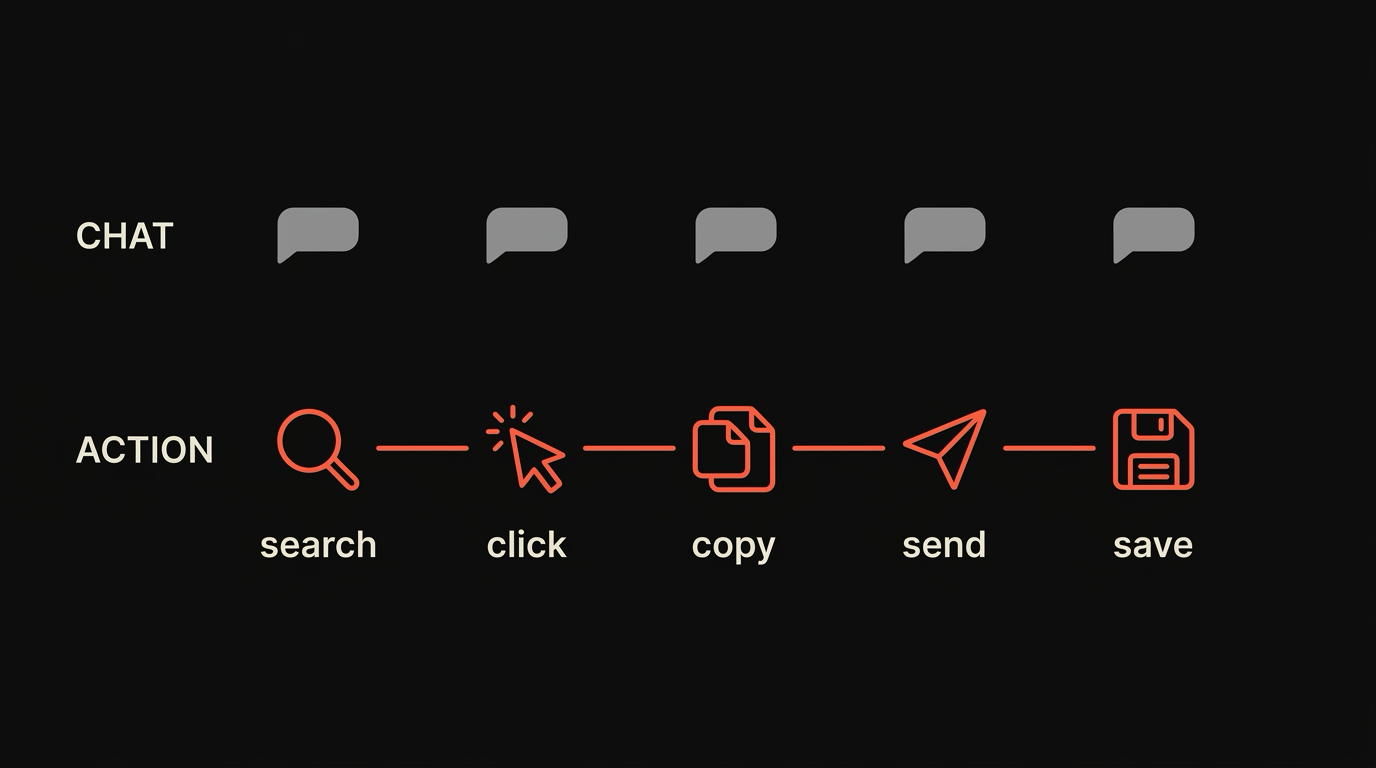
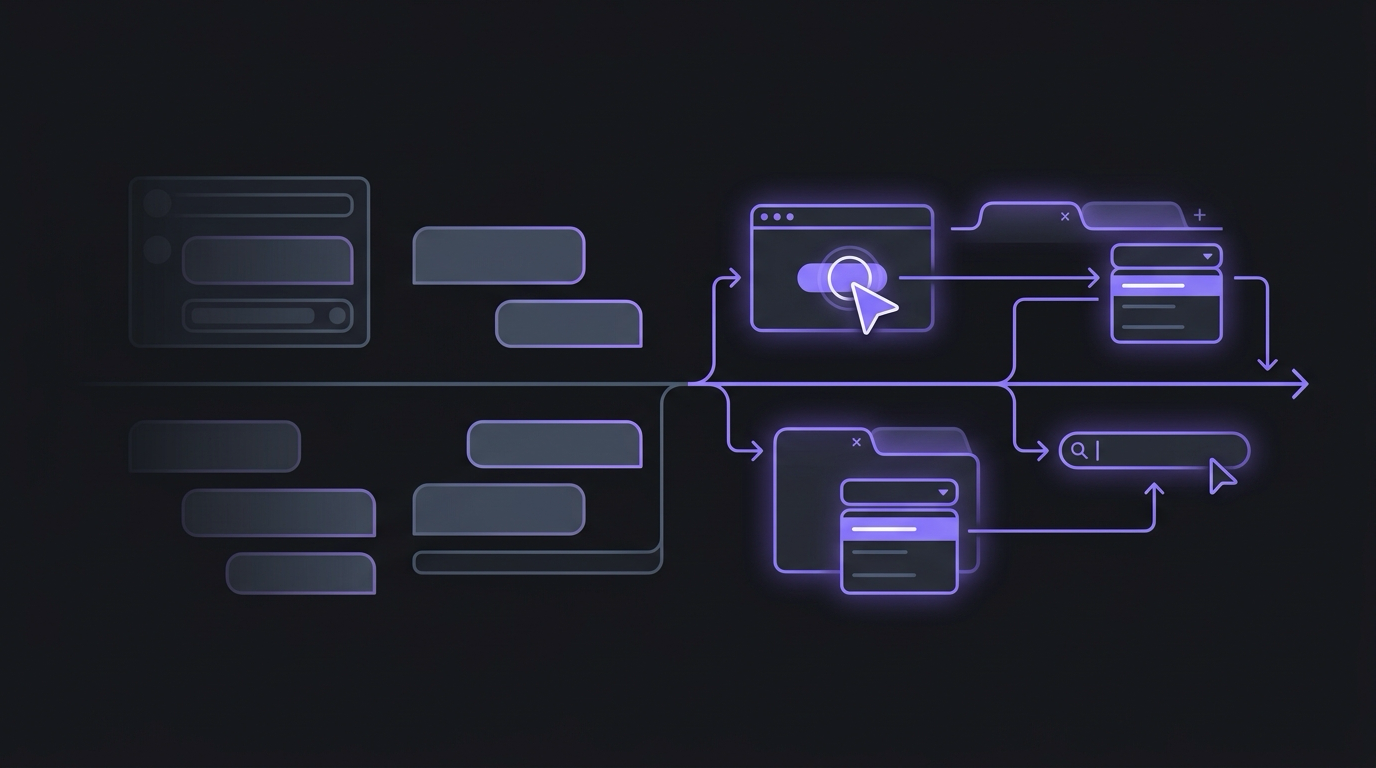
docs(blog): add blog AGENTS.md guidelines and update legacy body images with agy vector art

Changed region(s): [[0.0312, 0.2188, 0.9688, 0.8125]]

diff --git a/website/src/content/docs/blog/AGENTS.md b/website/src/content/docs/blog/AGENTS.md
@@ -1,0 +1,143 @@
+---
+title: "Maho Blog Post & Asset Creation Guidelines"
+description: "Canonical reference for authoring, styling, verifying, and illustrating Maho Browser blog posts."
+date: 2026-08-24
+tags: ["guidelines", "internal"]
+excerpt: "Canonical reference for authoring, styling, verifying, and illustrating Maho Browser blog posts."
+draft: true
+authors:
+  - name: Maho Team
+---
+
+# MAHO BLOG POST & ASSET CREATION GUIDELINES
+
+**Generated:** 2026-08-24  
+**Location:** `website/src/content/docs/blog/`  
+**Purpose:** Canonical reference for authoring, styling, verifying, and illustrating Maho Browser blog posts.
+
+---
+
+## 1. OVERVIEW & FILE STRUCTURE
+
+Every blog post consists of an MDX document and three associated image assets:
+
+```
+website/
+├── src/content/docs/blog/
+│   └── <slug>.mdx                      # Article body with YAML frontmatter
+└── public/assets/blog/<slug>/
+    ├── hero.png                        # Cover card (Satori / Resvg rendered)
+    ├── body-1.png                      # First body illustration (agy generated)
+    └── body-2.png                      # Second body illustration (agy generated)
+```
+
+---
+
+## 2. FRONTMATTER & METADATA CONTRACT
+
+Each MDX file must begin with exact YAML frontmatter:
+
+```yaml
+---
+title: "Article Title Here"
+description: "A concise 1-2 sentence summary of the article."
+date: 2026-08-24
+tags: ["browser", "workflow", "privacy", "ux"]
+excerpt: "A compelling summary displayed on the blog index and RSS feed."
+authors:
+  - name: Maho Team
+---
+```
+
+- **Date:** Release date in `YYYY-MM-DD` format.
+- **Authors:** Always `Maho Team` unless otherwise specified.
+- **Language:** English only.
+
+---
+
+## 3. WRITING STANDARDS & CONTENT RULES
+
+### Tone & Style
+- **Clear, Technical, and Grounded:** Write with engineering depth. Explain *why* architectural choices matter rather than making vague marketing claims.
+- **Word Count:** 1,200 to 1,600 words per article.
+- **Structure:** Clear hierarchy (`##` H2 sections, `###` H3 subsections) with logical progression.
+
+### Mandatory Compliance & Licensing Guardrails
+- **PROPRIETARY / CLOSED-SOURCE ONLY:** Maho is closed-source.
+  - **NEVER** use open-source claims ("open source", "MIT licensed", "auditable code", etc.).
+  - **NEVER** link to public source repositories (`github.com/*/maho*`).
+  - Validation check must return 0 matches:
+    ```bash
+    grep -inE 'open.?source|MIT licen[cs]|github\.com/[A-Za-z0-9_.-]+/maho' <post>.mdx
+    ```
+- **Security & Performance Claims:**
+  - Do not promise unsubstantiated security ("unbreakable", "audited", "more secure") unless explicitly cleared. Focus on concrete UX, auto-lock, and consent mechanisms.
+  - Do not fabricate synthetic benchmarks or RAM percentages; explain architectural trade-offs (e.g. native views vs extension background processes) and guide users to measure themselves.
+
+---
+
+## 4. IMAGE ARCHITECTURE: HERO VS. BODY SEPARATION (CRITICAL)
+
+Blog images are divided into two distinct visual roles and production pipelines:
+
+### A. Cover / Hero Image (`hero.png`) — Satori Diagram Card
+- **Tool:** Deterministic Node.js script using Satori and Resvg:
+  ```bash
+  node website/scripts/generate-all-blog-images.mjs
+  ```
+  *(Note: Always run with `node`, never `bun`, to prevent parser crashes).*
+- **Visual Style:**
+  - Dark developer background (`#0d0d12`) with subtle radial gradients.
+  - Typography: Serif header + monospace metadata tags.
+  - Structured summary card with violet accent (`#8b7ff5`) and status indicator.
+  - Dimension: `1376x768` (or `1200x630` for social OG).
+
+### B. Body Illustrations (`body-1.png`, `body-2.png`) — `agy` Vector Art
+- **Rule:** **NEVER** use the hero card / text-box diagram style inside the article body. Body images must be intuitive visual metaphors.
+- **Tool:** `agy` CLI with Gemini image generation:
+  ```bash
+  agy --dangerously-skip-permissions --print-timeout 5m -p="Use your generate_image tool to create an image and save it exactly to /path/to/target.png. Image prompt: <prompt>. After saving, output only the file path."
+  ```
+- **Prompt Architecture:**
+  - **Style Base:** `Flat vector illustration, dark developer-tool aesthetic: deep charcoal background (#0d0d12), soft violet accent (#8b7ff5), muted slate grays, clean rounded geometric shapes, generous negative space, subtle soft glow, no text, no letters, no watermark.`
+  - **Subject:** Concrete conceptual metaphor visualizing the section's core idea (e.g., a robot pausing before a permission shield, an encrypted energy thread between laptop and smartphone, or isolated website cards scoped with a glowing boundary ring).
+  - **Text Constraint:** Explicitly prohibit text, alphabet soup, pseudo-labels, and watermarks to maintain a polished, premium aesthetic.
+
+---
+
+## 5. IMAGE REFERENCE CONVENTION IN MDX
+
+Every article must reference exactly three images in order:
+
+```markdown
+![Hero description covering the article concept](/assets/blog/<slug>/hero.png)
+
+## Section One
+...
+
+![Intuitive visual metaphor for section one](/assets/blog/<slug>/body-1.png)
+
+## Section Two
+...
+
+![Intuitive visual metaphor for section two](/assets/blog/<slug>/body-2.png)
+```
+
+---
+
+## 6. VERIFICATION & BUILD CHECKLIST
+
+Before finalizing or publishing any blog post:
+
+1. **Compliance Scan:**
+   ```bash
+   grep -inE 'open.?source|MIT licen[cs]|github\.com/[A-Za-z0-9_.-]+/maho' website/src/content/docs/blog/<slug>.mdx
+   ```
+2. **Asset Validation:**
+   Ensure all three PNG files exist and are valid non-empty images.
+3. **Static Build:**
+   ```bash
+   PUBLIC_RELAY_URL=https://relay.mahobrowser.com bun run --cwd website build
+   ```
+4. **Dev Server Verification:**
+   Verify rendered pages and image responsiveness on `http://localhost:5555/blog/<slug>/`.
